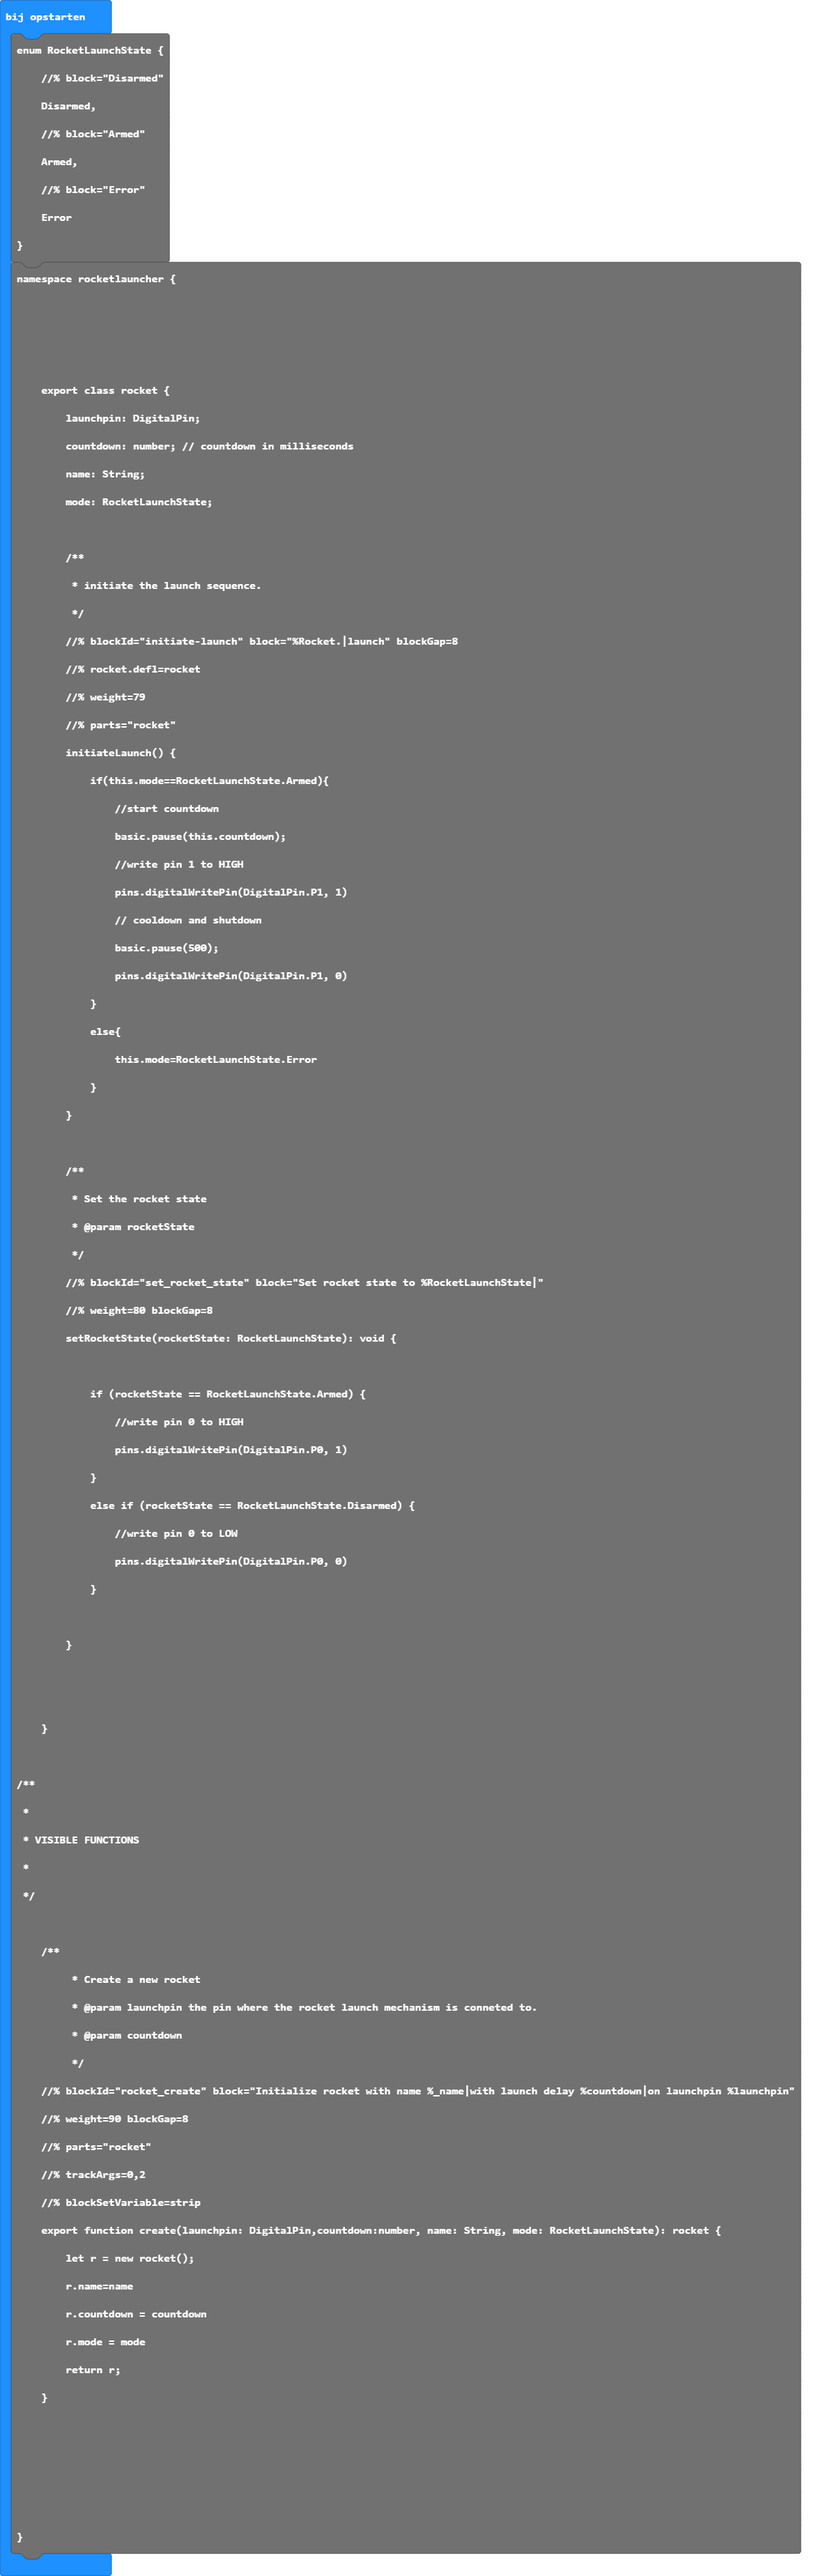
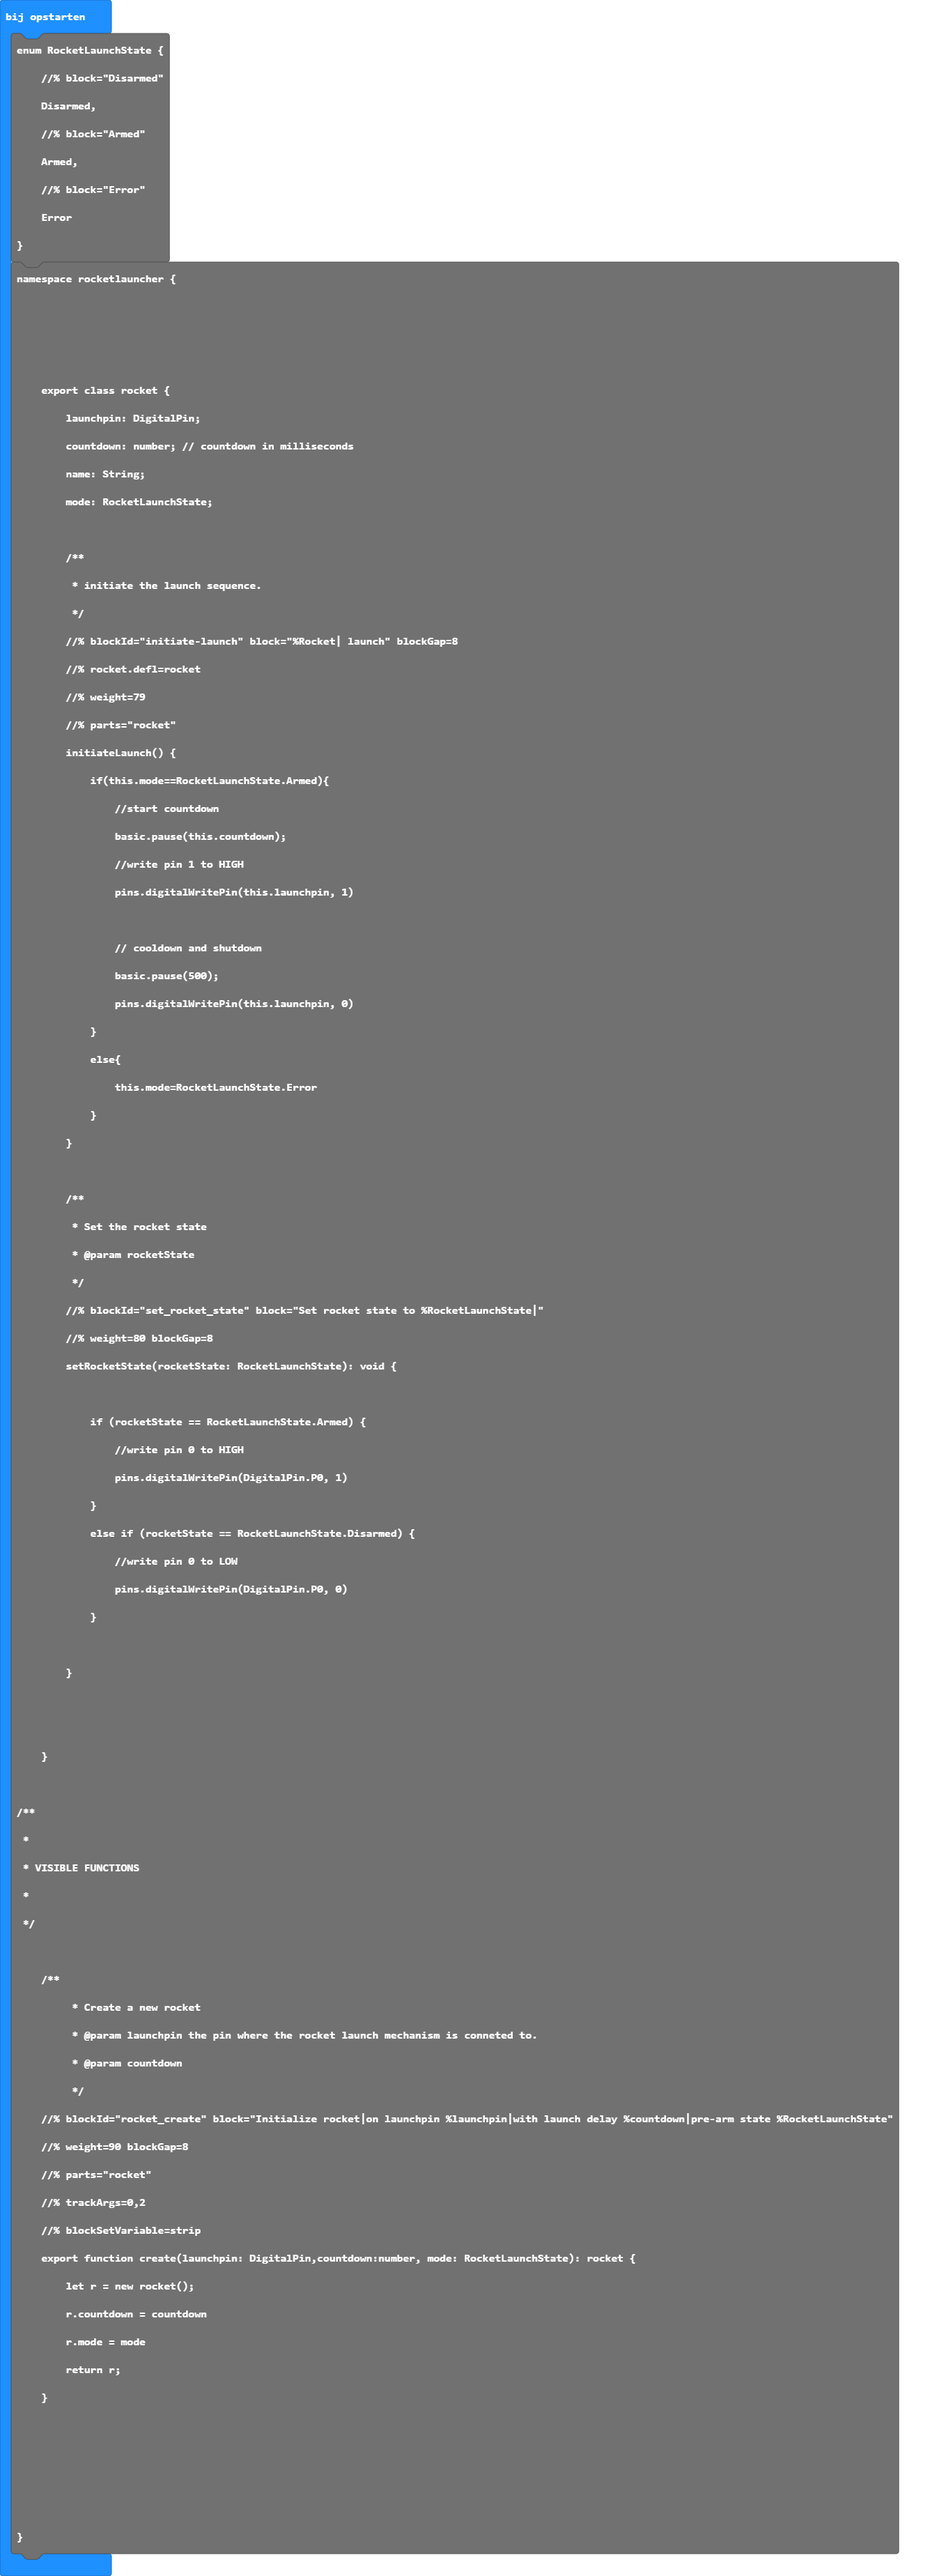
main.blocks, main.ts bijwerken

diff --git a/main.ts b/main.ts
@@ -28,10 +28,11 @@ namespace rocketlauncher {
                 //start countdown
                 basic.pause(this.countdown);
                 //write pin 1 to HIGH 
-                pins.digitalWritePin(DigitalPin.P1, 1)
+                pins.digitalWritePin(this.launchpin, 1)
+                
                 // cooldown and shutdown
                 basic.pause(500);
-                pins.digitalWritePin(DigitalPin.P1, 0)
+                pins.digitalWritePin(this.launchpin, 0)
             }
             else{
                 this.mode=RocketLaunchState.Error
@@ -70,15 +71,15 @@ namespace rocketlauncher {
          * Create a new rocket 
          * @param launchpin the pin where the rocket launch mechanism is conneted to.
          * @param countdown
+         * @param RocketLaunchState
          */
-    //% blockId="rocket_create" block="Initialize rocket with name %name|with launch delay %countdown|on launchpin %launchpin"
+    //% blockId="rocket_create" block="Initialize rocket|on launchpin %launchpin|with launch delay %countdown|pre-arm state %RocketLaunchState"
     //% weight=90 blockGap=8
     //% parts="rocket"
     //% trackArgs=0,2
     //% blockSetVariable=strip
-    export function create(launchpin: DigitalPin,countdown:number, name: String, mode: RocketLaunchState): rocket {
+    export function create(launchpin: DigitalPin,countdown:number, mode: RocketLaunchState): rocket {
         let r = new rocket();
-        r.name=name
         r.countdown = countdown
         r.mode = mode
         return r;
